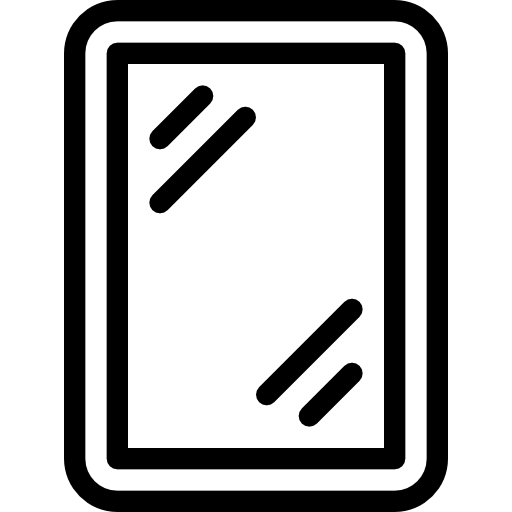
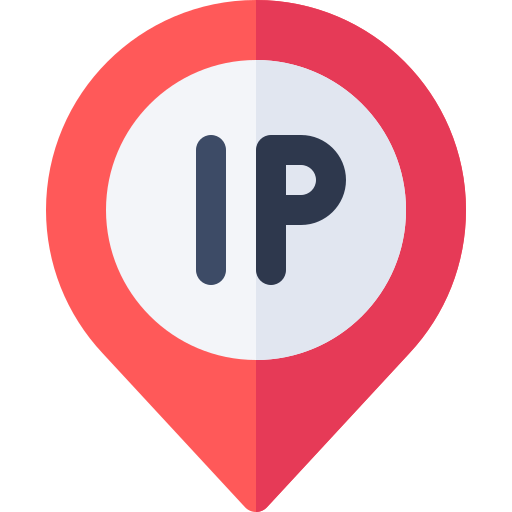
WIP: limpia comentarios y sustituye el icono por PNG 512x512
Pendiente de probar la integración con Scamalytics.

diff --git a/src/api.js b/src/api.js
@@ -1,12 +1,6 @@
-// api.js — Lógica de llamadas. Separa la capa gratis (C) de la pro (B).
-// Se importa como módulo ES desde popup.js.
 
-// ---------------------------------------------------------------------------
-// CAPA C (gratis, sin key): IP pública + geolocalización + ISP
-// Fuente: ipapi.co (sin registro). Devuelve país, ciudad, región e ISP/org.
-// ipapi.co limita las peticiones gratuitas; si falla, se recurre a ipify
-// (la fuente original del proyecto) para al menos mostrar la IP.
-// ---------------------------------------------------------------------------
+
+
 export async function fetchBasic() {
   try {
     return await fetchIpapi();
@@ -21,7 +15,6 @@ async function fetchIpapi() {
   if (!res.ok) throw new Error(`ipapi HTTP ${res.status}`);
 
   const d = await res.json();
-  // ipapi marca error con la propiedad "error": true
   if (d.error) throw new Error(d.reason || "ipapi error");
 
   return {
@@ -30,7 +23,7 @@ async function fetchIpapi() {
     region: d.region,
     country: d.country_name,
     countryCode: d.country_code,
-    isp: d.org, // nombre de la red / operador
+    isp: d.org, 
   };
 }
 
@@ -42,10 +35,7 @@ async function fetchIpify() {
   return data.ip;
 }
 
-// Heurística LOCAL y gratuita: ¿el ISP parece un datacenter/hosting?
-// NO es detección de VPN de verdad — es solo una pista basada en el nombre
-// del operador. Un datacenter suele indicar servidor/VPN/proxy, pero da
-// falsos positivos. Se muestra etiquetada como "pista", no como veredicto.
+
 const DATACENTER_HINTS = [
   "ovh", "digitalocean", "digital ocean", "amazon", "aws", "google cloud",
   "gcp", "microsoft", "azure", "hetzner", "linode", "vultr", "contabo",
@@ -59,16 +49,9 @@ export function datacenterHint(isp) {
   return DATACENTER_HINTS.some((h) => lower.includes(h));
 }
 
-// ---------------------------------------------------------------------------
-// CAPA B (pro, con key del usuario): score de fraude vía Scamalytics
-// Endpoint documentado: https://apiXX.scamalytics.com/v3/{usuario}?key=...&ip=...
-// El host (api11, api12, …) y el formato EXACTO dependen de la cuenta, así que
-// el parseo es defensivo: busca el score en varias rutas posibles.
-// ---------------------------------------------------------------------------
 export const DEFAULT_SCAMALYTICS_HOST = "api11.scamalytics.com";
 
-// Solo se aceptan subdominios de scamalytics.com: es lo único que cubre
-// host_permissions, y evita enviar la API key a un servidor cualquiera.
+
 export function isValidScamalyticsHost(host) {
   return /^[a-z0-9-]+\.scamalytics\.com$/i.test(host);
 }
@@ -90,10 +73,8 @@ export async function fetchScamalytics({ username, apiKey, host, ip }) {
 
   const raw = await res.json();
 
-  // Parseo tolerante: el JSON suele venir anidado bajo "scamalytics".
   const s = raw.scamalytics || raw;
 
-  // La API responde 200 con status "error" ante key/usuario incorrectos.
   if (s.status === "error") {
     throw new Error(s.error || "Scamalytics devolvió un error");
   }
@@ -104,8 +85,6 @@ export async function fetchScamalytics({ username, apiKey, host, ip }) {
     firstDefined(s.scamalytics_risk, s.risk, raw.risk);
 
   if (score === undefined) {
-    // Si llega aquí, el formato de TU cuenta no coincide con lo esperado.
-    // Revisa 'raw' en la consola y ajusta las rutas de arriba.
     console.warn("Scamalytics: respuesta no reconocida", raw);
     throw new Error("Formato de respuesta no reconocido");
   }

diff --git a/src/popup.js b/src/popup.js
@@ -1,4 +1,3 @@
-// popup.js — Orquesta la UI del popup. Módulo ES (importa api.js).
 import { fetchBasic, datacenterHint, fetchScamalytics } from "./api.js";
 
 const ipEl = document.getElementById("ip");
@@ -16,7 +15,6 @@ init();
 async function init() {
   showLastSeen();
 
-  // 1. Capa C: IP + geo + ISP (siempre)
   try {
     const basic = await fetchBasic();
     currentIp = basic.ip;
@@ -43,19 +41,16 @@ async function init() {
     ipEl.textContent = "No se pudo obtener la IP";
     ipEl.classList.add("error");
     copyBtn.disabled = true;
-    return; // sin IP no tiene sentido seguir con la capa B
+    return; 
   }
 
-  // 2. Capa B: score de fraude, solo si hay credenciales guardadas
   const creds = await getCreds();
   if (creds.apiKey && creds.username) {
     await loadRisk(creds, currentIp);
   }
 }
 
-// --- Capa B ---
-// Se construye con textContent (no innerHTML): "risk" y los mensajes de
-// error vienen de una API externa y no deben interpretarse como HTML.
+
 async function loadRisk(creds, ip) {
   riskBody.replaceChildren(el("span", "loading", "Consultando…"));
   try {
@@ -82,7 +77,6 @@ function el(tag, className, text) {
   return node;
 }
 
-// --- Botón copiar ---
 copyBtn.addEventListener("click", async () => {
   if (!currentIp) return;
   await navigator.clipboard.writeText(currentIp);
@@ -92,13 +86,11 @@ copyBtn.addEventListener("click", async () => {
   setTimeout(() => (copyBtn.textContent = original), 1200);
 });
 
-// --- Enlace a opciones ---
 openOptions.addEventListener("click", (e) => {
   e.preventDefault();
   chrome.runtime.openOptionsPage();
 });
 
-// --- Última IP vista ---
 function showLastSeen() {
   chrome.storage.local.get(["lastIp", "lastSeen"], (data) => {
     if (!data.lastIp) return;
@@ -107,7 +99,6 @@ function showLastSeen() {
   });
 }
 
-// --- Helper: leer credenciales de storage.local ---
 function getCreds() {
   return new Promise((resolve) => {
     chrome.storage.local.get(["username", "apiKey", "host"], (d) => {

diff --git a/src/options.js b/src/options.js
@@ -1,4 +1,3 @@
-// options.js — Guardar / leer / borrar credenciales en storage.local.
 import { DEFAULT_SCAMALYTICS_HOST, isValidScamalyticsHost } from "./api.js";
 
 const usernameEl = document.getElementById("username");
@@ -8,7 +7,6 @@ const statusEl = document.getElementById("status");
 
 hostEl.placeholder = DEFAULT_SCAMALYTICS_HOST;
 
-// Cargar lo guardado al abrir
 chrome.storage.local.get(["username", "apiKey", "host"], (d) => {
   usernameEl.value = d.username || "";
   apiKeyEl.value = d.apiKey || "";

diff --git a/src/options.css b/src/options.css
@@ -1,4 +1,3 @@
-/* Reutiliza las variables y estilos base de popup.css */
 
 body {
   width: auto;
